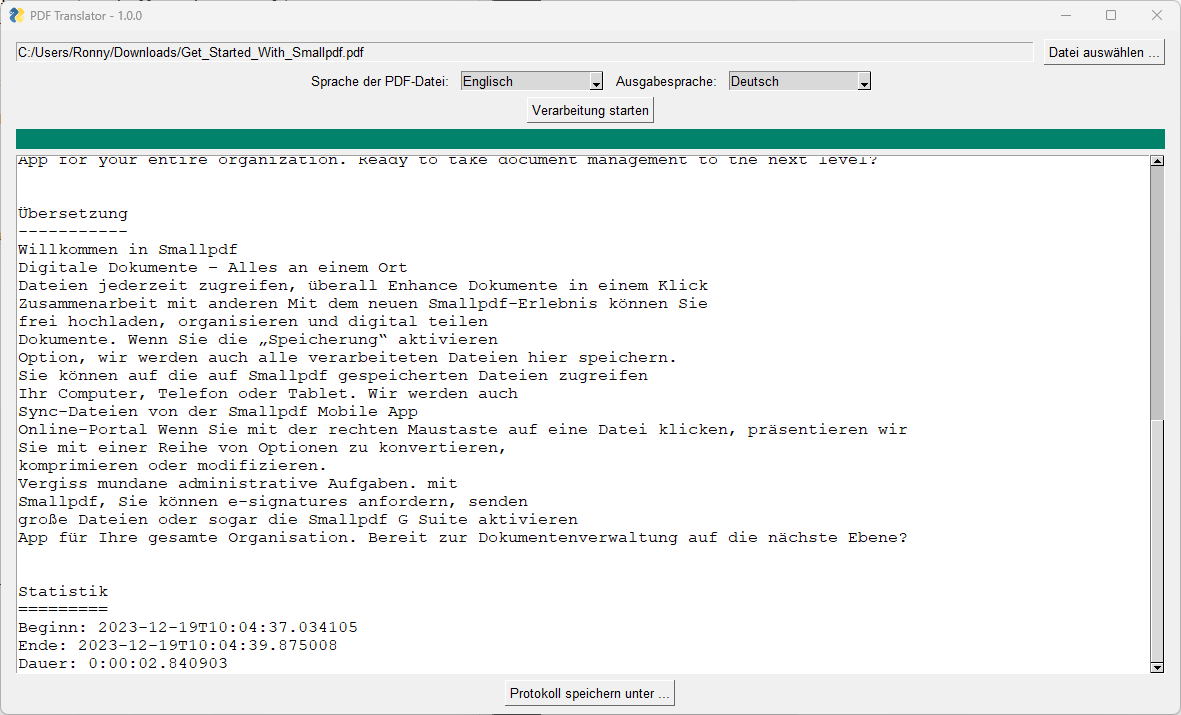
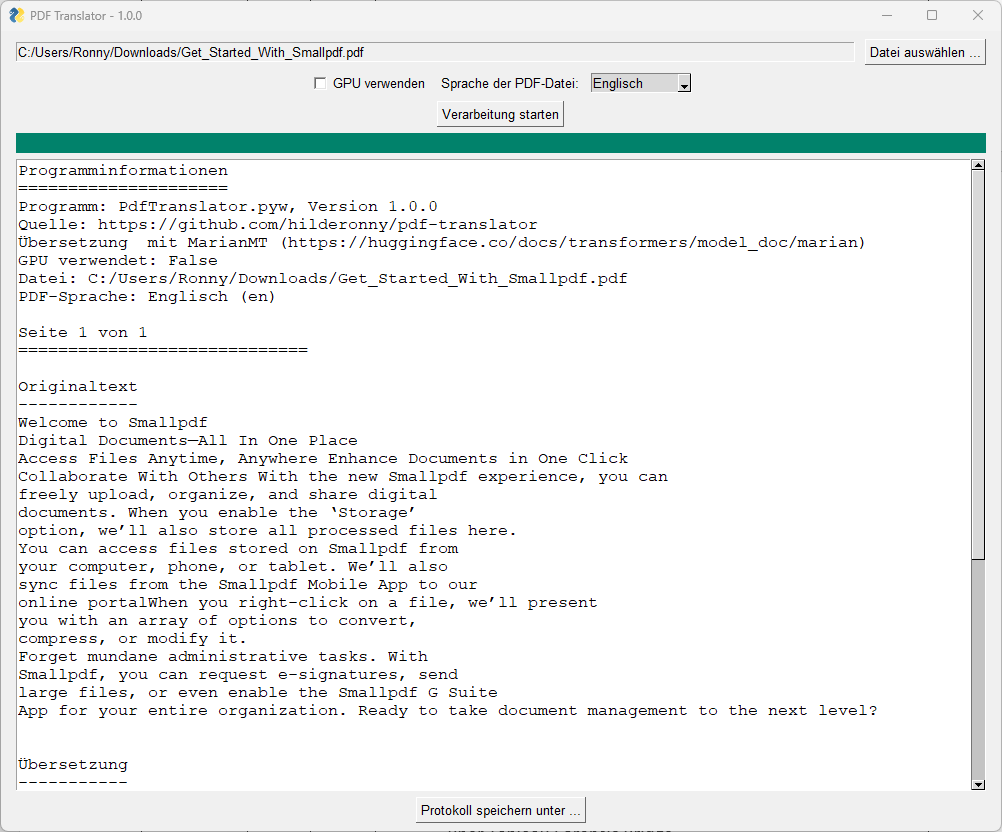
Ausgabesprache auf deutsch beschränkt. Eingabesprachen beschränkt.

Changed region(s): [[0.0, 0.0, 0.99, 0.9538], [0.4022, 0.9538, 0.5878, 1.0], [0.8663, 0.0615, 0.99, 0.0923]]

diff --git a/README.md b/README.md
@@ -22,3 +22,9 @@ Nach Abschluss wird im Anwendungsfenster ein Protokoll der Übersetzung angezeig
 1. Repository klonen
 1. `pip install -r requirements.txt`
 1. Argos Translate Modelle in Unterverzeichnis `./data/argos-translate/packages` kopieren, alternativ mit `python ./download_argos_models.py` herunterladen
+
+## Unterstützung neuer Sprachen
+
+Um eine neue Sprache zu unterstützen, muss man im Quellcode die entsprechende Sprache einkommentieren und anschließend
+ein einfaches PDF-Dokument mit irgendeinem Inhalt (kann auch Dummy-Datei sein) verarbeiten. Dabei muss eine Internetverbindung bestehen.
+Bei diesem erstmaligen Verwenden einer Sprache werden automatisch die entsprechenden KNN-Modelle heruntergeladen (1 x Stanza ~ 500 MB, 1 x Marian ~ 500 MB).

diff --git a/CHANGELOG.md b/CHANGELOG.md
@@ -1,5 +1,12 @@
 # Änderungshistorie
 
+## 1.1.0
+- Verwendung von Stanza zur Satzseparierung
+- Verwendung von MarianMT / HuggingFace für Übersetzung, ist genauer als Argos Translate
+- Ausgabesprache auf deutsch festgelegt
+- Begrenzung der Eingabesprachen: Arabisch, Englisch, Französisch, Unkrainisch, Ungarisch
+- Ausführung auf GPU mit nVidia CUDA möglich
+
 ## 1.0.0
 - Verwendung von Argos Translate 1.8.1
 - Auswahl von Quell- und Zielsprache
